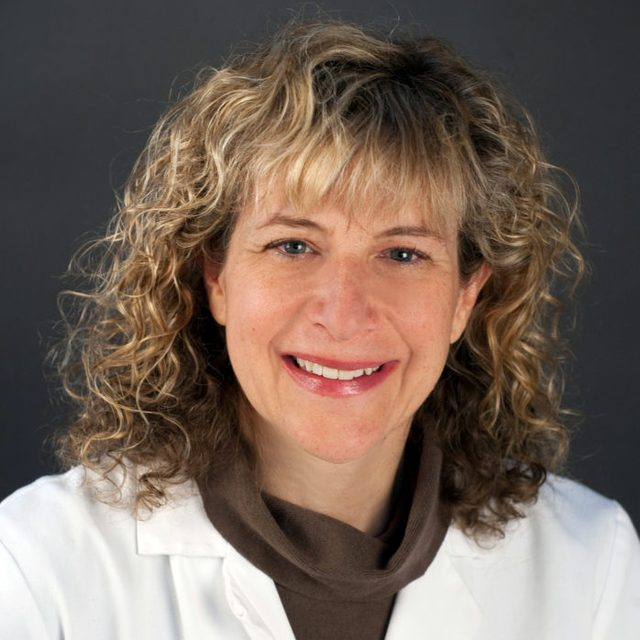
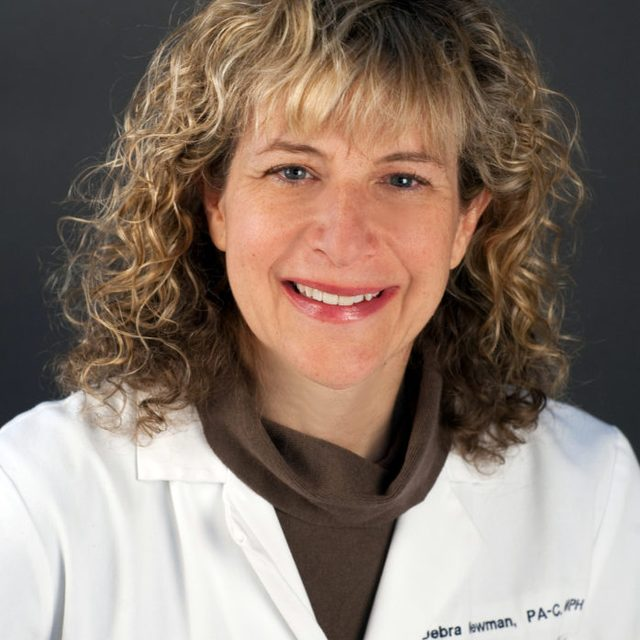
feat(about): use Josh public headshots for seven leadership cards
Replace weaker public photos for Debra (embroidery visible), Jordan
(ISAM wave-shirt), Kerith, Lamont, Megan, and Tasha. Jim already
matched the provided likeness. Leave Baker, Cohen, and Kelsy as-is.

diff --git a/public/leadership/README.md b/public/leadership/README.md
@@ -19,14 +19,14 @@ find. Never hotlink private Drive URLs.
 | `josh-luftig.jpg` | Josh Luftig | Submitted Leadership Profile photo (salt-and-pepper / navy blazer / light-blue open shirt). Replaces the earlier Dialogue4Health / Bridge quilted-jacket file. |
 | `kala-klug.jpg` | Kala Klug | Same blonde / black-blazer / teal-top studio likeness as the Leadership Profile attachment (UPMC provider photo) |
 | `shani-wilson.jpg` | Shani Wilson | Submitted Leadership Profile photo (locs / black rectangular glasses / forest-green V-neck / black blazer) |
-| `tasha-seliski.jpg` | Natasha “Tasha” Seliski | University of Utah Health faculty page |
-| `debra-newman.jpg` | Debra Newman | PCSS-MOUD lead-mentor page |
-| `jim-anderson.jpg` | James E. Anderson | AAPA News Central (2017 headshot) |
-| `jonathan-baker.jpg` | Jonathan Baker | AAPA 2025 presenter page |
-| `jordan-vold.jpg` | Jordan Vold | UI Health / Mile Square clinician page |
-| `kerith-hartmann.jpg` | Kerith Hartmann | Crop from OHSU News OSPA PA of the Year photo (lanyard visible) |
-| `lamont-scott.jpg` | Lamont Scott | MEDEX Northwest magazine, 2016 student-era |
-| `megan-zawacki.jpg` | Megan Zawacki | St. Peter’s Health clinician page |
+| `tasha-seliski.jpg` | Natasha “Tasha” Seliski | University of Utah Health faculty page (dark blazer, pearl earrings) — public photo Josh provided |
+| `debra-newman.jpg` | Debra Newman | PCSS-MOUD lead-mentor page; recropped so the embroidered “Debra Newman, PA-C, MPH” on the coat is visible |
+| `jim-anderson.jpg` | James E. Anderson | AAPA News Central 2017 headshot (bald, tan shirt, striped tie) — same likeness Josh provided |
+| `jonathan-baker.jpg` | Jonathan Baker | AAPA 2025 presenter page. Do not replace with the NYU anorectal/LGBTQ Jonathan Baker photo. |
+| `jordan-vold.jpg` | Jordan Vold | Illinois Society of Addiction Medicine board photo (beard, wave-pattern shirt). Replaces the earlier UI Health clean-shaven / light-blue-shirt file. |
+| `kerith-hartmann.jpg` | Kerith Hartmann | Head-and-shoulders crop from the OHSU News OSPA PA of the Year photo (black blazer, lanyard) |
+| `lamont-scott.jpg` | Lamont Scott | MEDEX Northwest magazine, 2016 (light green checked shirt) — public photo Josh provided |
+| `megan-zawacki.jpg` | Megan Zawacki | St. Peter’s Health clinician page (blonde, black top) — public photo Josh provided |
 | `jonathan-s-cohen.jpg` | Jonathan S. Cohen | Public LinkedIn profile photo (same headshot Josh attached for this preview) |
 | `kelsy-babbitt-ruggiero.jpg` | Kelsy Babbitt Ruggiero | Public LinkedIn profile photo (same headshot Josh attached for this preview) |
 
